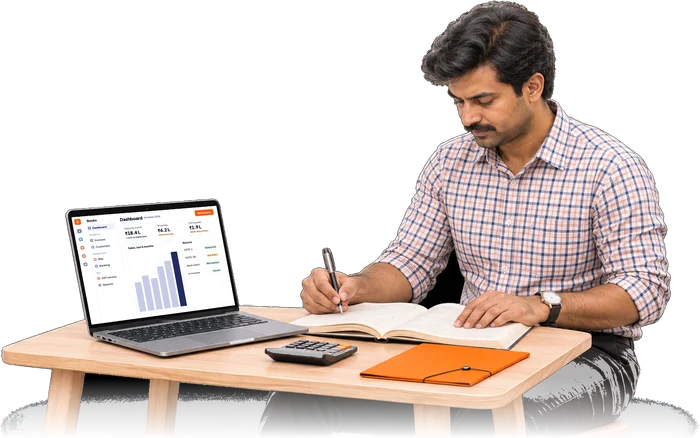
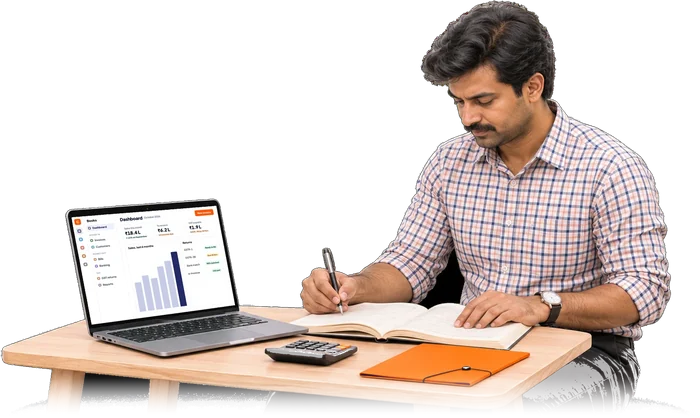
clor.in: owner's defect list
- Logo file renamed (clor-logo-2026-11.png) so no browser shows the
  cached oxblood logo
- Hero photo cut cleanly under the tabletop with a soft fade; no grey
  floor blob or ragged legs; 'Screens show sample data' caption removed
- No more half-empty sections: every two-column section stacks, heading
  across the top, content in two or three columns under it (connections,
  setting up, data, questions)
- Product pages show the product's photo instead of the drawn window

diff --git a/website/src/pages/Product.jsx b/website/src/pages/Product.jsx
@@ -3,7 +3,6 @@ import { Link } from '../router.jsx';
 import { CONNECTIONS, PRODUCTS, demoFor, productBySlug } from '../site.js';
 import { PRODUCT_CONTENT } from '../content.js';
 import { Mark, Status } from '../components/Brand.jsx';
-import { WINDOWS } from '../components/Windows.jsx';
 import { Closing, Faq, SectionHead, Steps } from '../components/Blocks.jsx';
 import { Head, SettingUp, TrustBand } from '../components/Sections.jsx';
 
@@ -14,11 +13,21 @@ import { Head, SettingUp, TrustBand } from '../components/Sections.jsx';
  * page names it in the message.
  */
 
+/* Each product's hero photo: a person at work with that product's real screen on the device. */
+const PHOTOS = {
+  books: { src: ['/people/books-invoice-560.webp', '/people/books-invoice-980.webp'], w: [560, 980], h: 620, alt: 'A tax invoice in CLOR Books on a laptop, with sample data', cut: true },
+  people: { src: ['/people/people-hr-700.webp', '/people/people-hr-1400.webp'], w: [700, 1400], h: 788, alt: 'An HR manager looking at an employee’s profile in CLOR People' },
+  payroll: { src: ['/people/payroll-payslip-560.webp', '/people/payroll-payslip-1120.webp'], w: [560, 1120], h: 1400, alt: 'An employee reading her October payslip from CLOR Payroll on her phone', tall: true },
+  attendance: { src: ['/people/attendance-reader-700.webp', '/people/attendance-reader-1400.webp'], w: [700, 1400], h: 1050, alt: 'An employee punching in on a biometric reader showing CLOR Attendance' },
+  projects: { src: ['/people/projects-360.webp', '/people/projects-720.webp'], w: [454, 909], h: 720, alt: 'Two colleagues planning project work at a desk' },
+  timesheet: { src: ['/people/timesheet-360.webp', '/people/timesheet-720.webp'], w: [372, 744], h: 720, alt: 'A consultant logging time at his laptop' },
+};
+
 function Hero({ p, c, soon }) {
-  const Win = WINDOWS[p.slug];
+  const ph = PHOTOS[p.slug];
   return (
     <section className="hero p-hero" aria-labelledby="p-title">
-      <div className={`wrap${Win ? ' p-hero-grid' : ''}`}>
+      <div className={`wrap${ph ? ' p-hero-grid' : ''}`}>
         <div className="hero-copy">
           <h1 id="p-title" className="h-hero">
             CLOR&nbsp;{p.name}
@@ -42,10 +51,17 @@ function Hero({ p, c, soon }) {
             </Link>
           </div>
         </div>
-        {Win ? (
-          <figure className="p-shot">
-            <Win />
-            <figcaption className="caption">Drawn with sample data. Real screenshots are on the way.</figcaption>
+        {ph ? (
+          <figure className={`p-photo${ph.cut ? ' p-photo--cut' : ''}${ph.tall ? ' p-photo--tall' : ''}`}>
+            <img
+              src={ph.src[1]}
+              srcSet={`${ph.src[0]} ${ph.w[0]}w, ${ph.src[1]} ${ph.w[1]}w`}
+              sizes="(max-width: 900px) 100vw, 560px"
+              width={ph.w[1]}
+              height={ph.h || undefined}
+              fetchPriority="high"
+              alt={ph.alt}
+            />
           </figure>
         ) : null}
       </div>

diff --git a/website/src/styles/site.css b/website/src/styles/site.css
@@ -2758,3 +2758,107 @@ html.is-scrolled .nav {
 .mega-feature:hover .mega-name {
   color: var(--accent-text);
 }
+
+/* =========================================== layout fixes (owner, 10 Nov 2026)
+ * "Huge empty places": a heading alone in a left column beside a long right
+ * column left half the screen bare. Every two-column section now stacks: the
+ * heading across the top, its content in columns underneath.
+ */
+.split {
+  grid-template-columns: minmax(0, 1fr);
+  gap: var(--gap-head);
+}
+.split > .head,
+.split > .sec-head {
+  position: static;
+  max-width: 46rem;
+}
+.split > .stack {
+  display: grid;
+  grid-template-columns: repeat(2, minmax(0, 1fr));
+  gap: var(--s-5) var(--gap-col);
+  align-items: start;
+}
+.split > .stack > * + * {
+  margin-top: 0;
+}
+.split > .stack > .text-link {
+  grid-column: 1 / -1;
+  justify-self: start;
+  margin-top: 0;
+}
+.split > .facts-list {
+  max-width: none;
+  columns: 2;
+  column-gap: var(--gap-col);
+  display: block;
+}
+.split > .facts-list li {
+  break-inside: avoid;
+  margin-bottom: var(--s-3);
+}
+.split > .btn--text {
+  grid-column: auto;
+}
+/* Connections: three across, each under a hairline. */
+.split > .links {
+  grid-template-columns: repeat(3, minmax(0, 1fr));
+  gap: 0 var(--gap-col);
+  border-top: 0;
+}
+.split > .links li {
+  border-bottom: 0;
+  border-top: 2px solid var(--line);
+  padding-top: var(--s-5);
+}
+/* Questions: two columns of question and answer. */
+.faq {
+  grid-template-columns: minmax(0, 1fr);
+  gap: var(--gap-head);
+}
+.faq > .h-2 {
+  font-size: var(--t-h1);
+  line-height: 1.1;
+  letter-spacing: -0.022em;
+}
+.faq-list {
+  display: grid;
+  grid-template-columns: repeat(2, minmax(0, 1fr));
+  gap: 0 var(--gap-col);
+  border-top: 0;
+}
+.faq-item {
+  border-bottom: 0;
+  border-top: 1px solid var(--line);
+}
+@media (max-width: 900px) {
+  .split > .stack,
+  .split > .links,
+  .faq-list {
+    grid-template-columns: minmax(0, 1fr);
+  }
+  .split > .facts-list {
+    columns: 1;
+  }
+}
+
+/* A product's hero photo. */
+.p-photo {
+  margin: 0;
+}
+.p-photo img {
+  width: 100%;
+  height: auto;
+  border-radius: var(--r-panel);
+  box-shadow: 0 24px 48px -28px rgba(15, 23, 42, 0.35);
+}
+.p-photo--cut img {
+  border-radius: 0;
+  box-shadow: none;
+  -webkit-mask-image: linear-gradient(180deg, #000 80%, transparent);
+  mask-image: linear-gradient(180deg, #000 80%, transparent);
+}
+.p-photo--tall {
+  max-width: 420px;
+  justify-self: center;
+}

diff --git a/website/src/components/Brand.jsx b/website/src/components/Brand.jsx
@@ -3,12 +3,12 @@ import { BookOpen } from 'lucide-react';
 import { Briefcase, CalendarDots, Fingerprint, UsersThree, Wallet } from '@phosphor-icons/react';
 import { Link } from '../router.jsx';
 
-/** The CLOR logo, as the apps draw it (packages/ui ClorLogo): orange C-mark and O, slate L and R (public/brand/clor-logo.png, 434 x 147). */
+/** The CLOR logo, as the apps draw it (packages/ui ClorLogo): orange C-mark and O, slate L and R (public/brand/clor-logo-2026-11.png; renamed so no browser keeps the old oxblood file, 434 x 147). */
 /** The header's copy loads first; the footer's (lazy) waits until it is near. */
 export function Logo({ height = 22, lazy = false, light = false }) {
   return (
     <Link href="/" className="logo" aria-label="CLOR home" translate="no">
-      <img src={light ? '/brand/clor-logo-light.png' : '/brand/clor-logo.png'} alt="CLOR" height={height} width={Math.round((height * 434) / 147)} loading={lazy ? 'lazy' : undefined} fetchPriority={lazy ? undefined : 'high'} />
+      <img src={light ? '/brand/clor-logo-2026-11-light.png' : '/brand/clor-logo-2026-11.png'} alt="CLOR" height={height} width={Math.round((height * 434) / 147)} loading={lazy ? 'lazy' : undefined} fetchPriority={lazy ? undefined : 'high'} />
     </Link>
   );
 }

diff --git a/website/src/pages/Home.jsx b/website/src/pages/Home.jsx
@@ -190,11 +190,10 @@ export default function Home() {
               srcSet="/people/hero-books-700.webp 700w, /people/hero-books-1400.webp 1400w"
               sizes="(max-width: 900px) 100vw, 640px"
               width="1400"
-              height="875"
+              height="835"
               fetchPriority="high"
               alt="An accountant at his desk with the CLOR Books dashboard open on his laptop"
             />
-            <figcaption className="caption">Screens show sample data.</figcaption>
           </figure>
         </div>
       </section>
